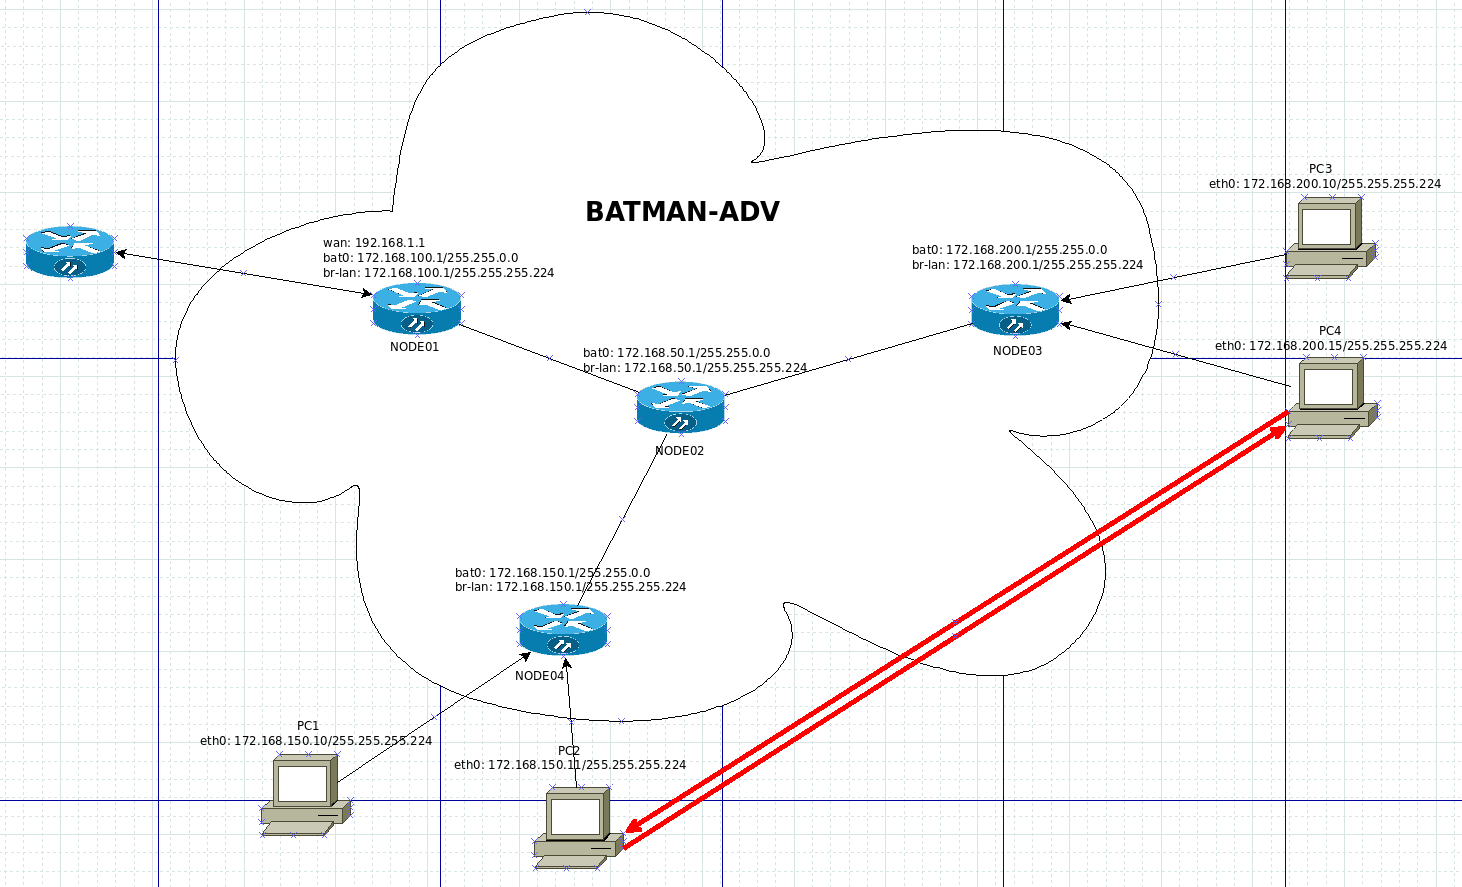
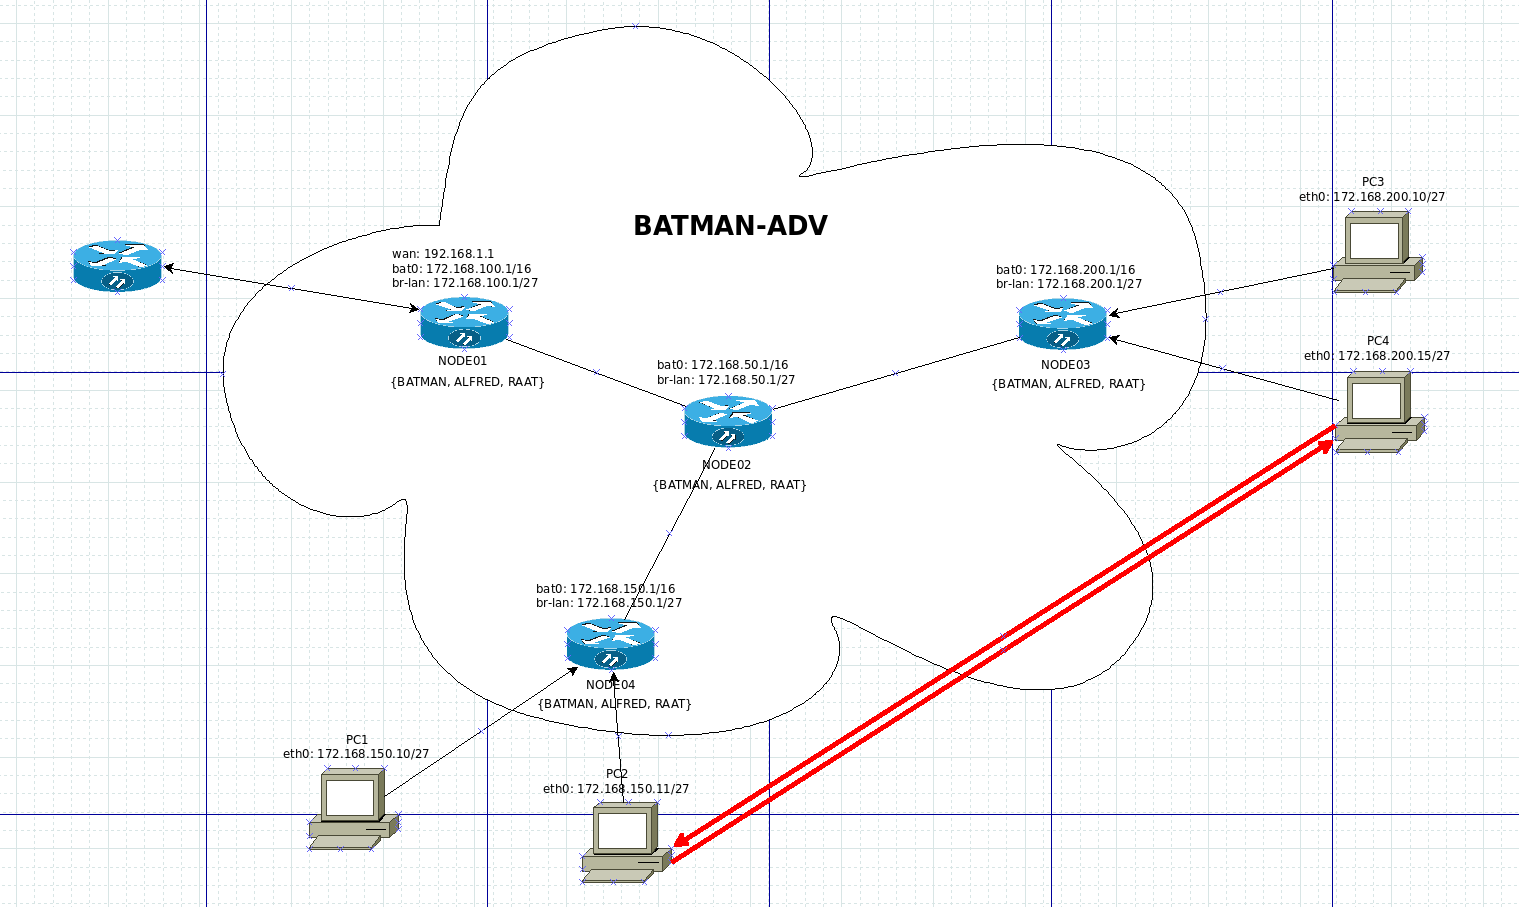
Readme addition

diff --git a/README.md b/README.md
@@ -1,9 +1,22 @@
 # raat
 Routing Announcement Alfred Through
 
-It is a concept of the dynamic announce mechanism which uses B.A.T.M.A.N. and A.L.F.R.E.D. as a background for spreading and getting static routes between MESH nodes without any other dynamic route protocols.
+This is a concept of the dynamic announce mechanism which uses B.A.T.M.A.N. and A.L.F.R.E.D. as a background for spreading and getting static routes between MESH nodes without any other dynamic route protocols.
 
 ![Concept of network](https://github.com/nickbash11/raat/blob/master/raat-network.png)
+
+The idea was taken from BMX6/BMX7 mesh daemon, which be able to use a global cloud network and share local networks behind it between each other. So, I decided to do something like that with batman-adv, but without any BGP/OLSR addition protocols.
+The example of such network presented on the screen above, where batman interface of each node has the mask 172.16.0.0/16 and also has some amount other networks behind it. In this case each node has an additional network with mask 27 with the same (as a cloud) ip address for clarity.
+
+For example, we want the PC2 could reach to the PC4 and back, so we have to do some manupilations with iproute2:
+
+On the NODE04:
+```ip route add 172.16.200.0/27 via 172.16.200.1```
+
+On the NODE03:
+```ip route add 172.16.150.0/27 via 172.16.150.1```
+
+Then PC2 and PC4 will be able to see each other, so, the RAAT daemon doing this automatically through A.L.F.R.E.D.
 
 
 ```
